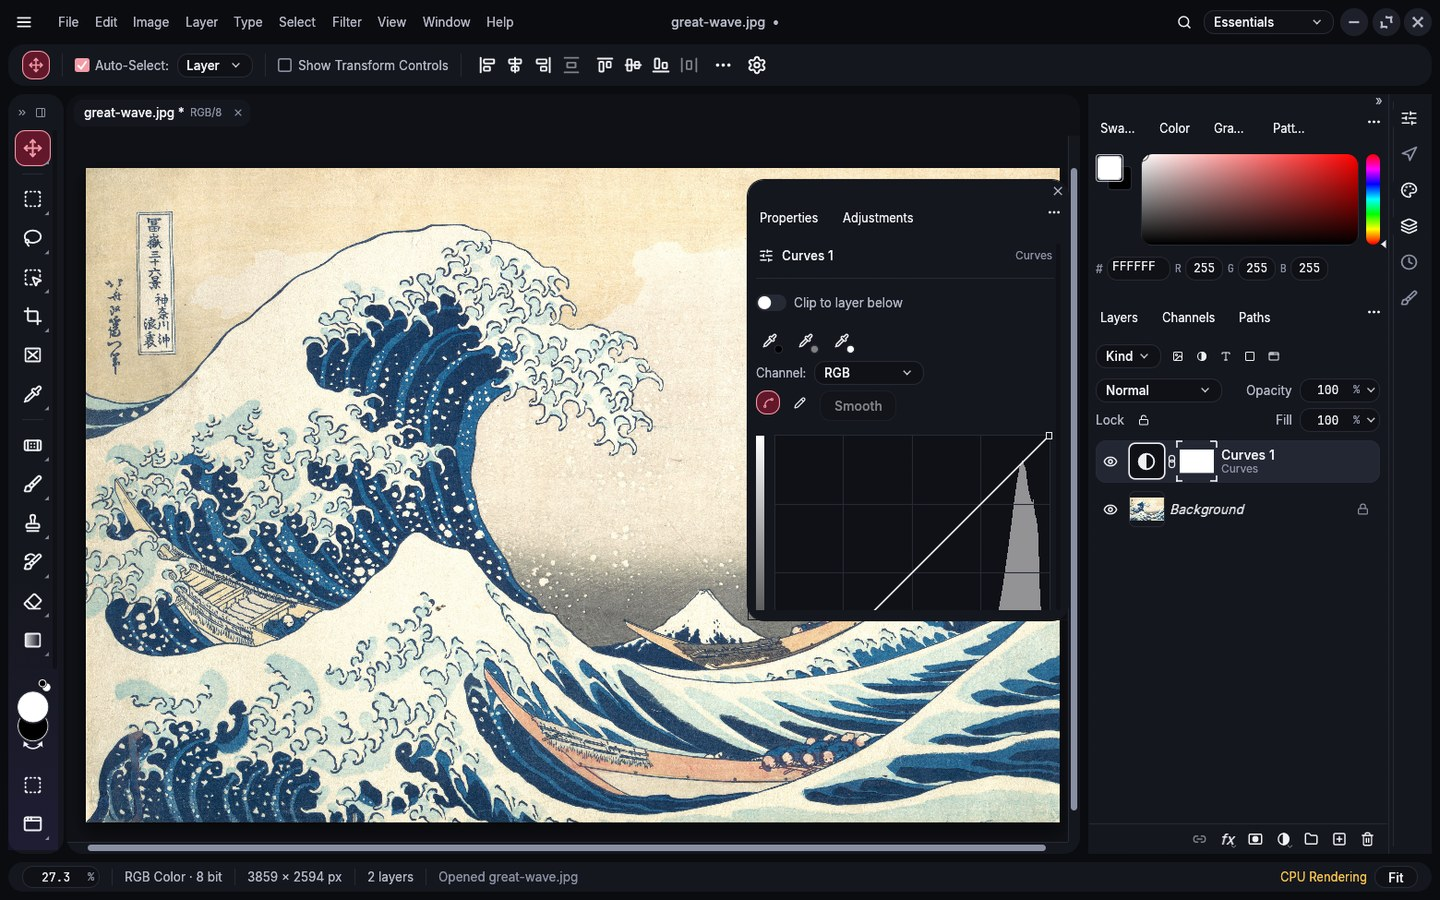
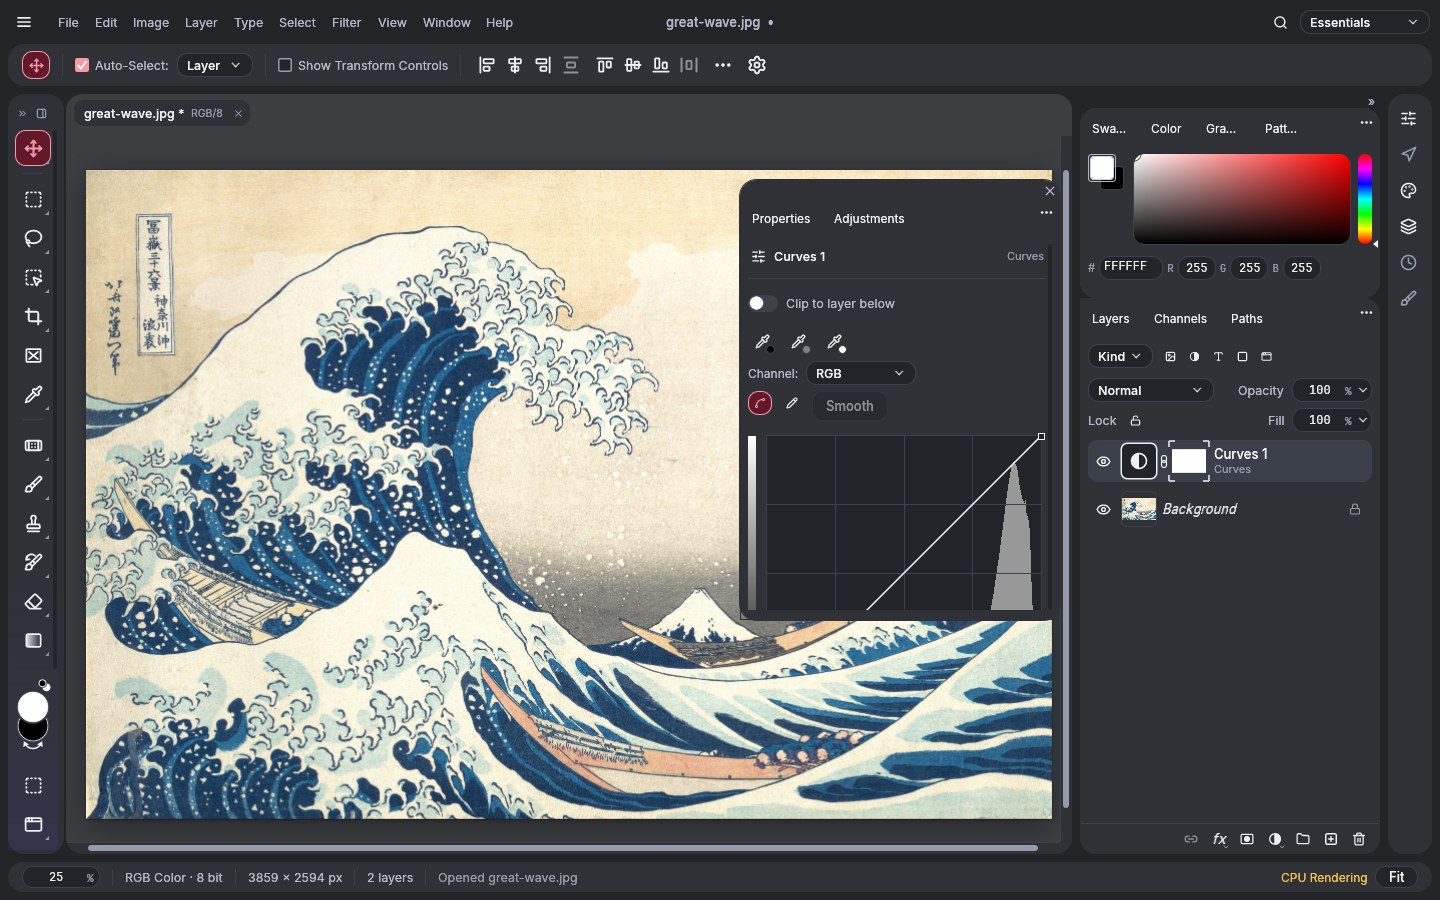
feat(ui): lighter dark mode, rounded dock cards and rail island
The dark theme was near black (the canvas 16/17/22), too dark to judge an image against, so its
surfaces are lifted a step and the canvas more. In Nodalia the right-hand dock's groups were one
square slab and its icon rail a flat strip: each group is now a rounded card and the rail an island.

Version 0.3.1, README and screenshots.

Claude-Session: https://claude.ai/code/session_018FLRxY4EMTFGFrprUoJejh

diff --git a/crates/ui-egui/src/theme.rs b/crates/ui-egui/src/theme.rs
@@ -887,8 +887,8 @@ impl Tokens {
     /// The window frame the islands stand on; the chrome colour in the other themes.
     pub fn frame(&self) -> Color32 {
         match self.kind {
-            ThemeKind::Nodalia => ndl(nodalia_theme::Mode::Dark.palette_with(LIENZO).surface_window),
-            ThemeKind::NodaliaLight => ndl(nodalia_theme::Mode::Light.palette_with(LIENZO).surface_window),
+            ThemeKind::Nodalia => ndl(palette(nodalia_theme::Mode::Dark).surface_window),
+            ThemeKind::NodaliaLight => ndl(palette(nodalia_theme::Mode::Light).surface_window),
             _ => self.chrome,
         }
     }
@@ -967,10 +967,36 @@ pub(crate) fn ndl(c: nodalia_theme::Rgba) -> Color32 {
     Color32::from_rgba_unmultiplied(c.r, c.g, c.b, c.a)
 }
 
-/// Nodalia's tokens for one mode, with Lienzo's accent. Every colour comes from the NDL palette:
+/// Nodalia's palette for one mode with Lienzo's accent. The dark surfaces are lifted a step: NDL's
+/// own are near black (the window frame is 11/12/16), too dark to judge an image against or to tell
+/// the islands apart, and the canvas, which NDL sinks below its panels, is lifted further so a
+/// dark image stands out from it. The light palette is NDL's as it is.
+pub(crate) fn palette(mode: nodalia_theme::Mode) -> nodalia_theme::Palette {
+    let mut p = mode.palette_with(LIENZO);
+    if mode.is_dark() {
+        let lift = |c: nodalia_theme::Rgba, k: f32| {
+            let up = |v: u8| (v as f32 + (255.0 - v as f32) * k).round() as u8;
+            nodalia_theme::Rgba::new(up(c.r), up(c.g), up(c.b), c.a)
+        };
+        p.surface_window = lift(p.surface_window, 0.10);
+        p.surface_panel = lift(p.surface_panel, 0.11);
+        p.surface_raised = lift(p.surface_raised, 0.11);
+        p.surface_overlay = lift(p.surface_overlay, 0.11);
+        p.surface_sunken = lift(p.surface_sunken, 0.19);
+        p.control_bg = lift(p.control_bg, 0.11);
+        p.control_bg_hover = lift(p.control_bg_hover, 0.11);
+        p.control_bg_pressed = lift(p.control_bg_pressed, 0.11);
+        p.control_field_bg = lift(p.control_field_bg, 0.08);
+        p.border_subtle = lift(p.border_subtle, 0.11);
+        p.text_tertiary = lift(p.text_tertiary, 0.10);
+    }
+    p
+}
+
+/// Nodalia's tokens for one mode, with Lienzo's accent. Every colour comes from [`palette`]:
 /// islands are `surface.panel`, the frame between them `surface.window`, controls `control.*`.
 fn nodalia_tokens(kind: ThemeKind, mode: nodalia_theme::Mode) -> Tokens {
-    let p = mode.palette_with(LIENZO);
+    let p = palette(mode);
     let dark = mode.is_dark();
     Tokens {
         kind,

diff --git a/vendor/craft-ui/src/docking/render/group.rs b/vendor/craft-ui/src/docking/render/group.rs
@@ -46,6 +46,19 @@ impl<P: Clone + Eq + Hash + Debug + Send + Sync + 'static> Renderer<'_, P> {
     /// tabs follow the panel tabs and fit with them ([`fit_with_extra`]). `minimized` hides the body
     /// but keeps the strip. Tabs, strip, header and drag bar are mirrored in right-to-left layout.
     pub(super) fn group(&mut self, ui: &mut Ui, panels: &[P], active: usize, minimized: bool, rect: Rect, kind: GroupKind) -> bool {
+        // A rounded dock group is a card: its fill first, the strip and body on top of it.
+        let round = kind == GroupKind::Dock && self.style.dock_radius > 0.0 && crate::docking::targets::usable(rect);
+        if round {
+            let radius = self.style.dock_radius.clamp(0.0, 255.0).round() as u8;
+            ui.painter().rect_filled(rect, radius, self.style.background);
+            self.dock_frame = Some(rect);
+        }
+        let taken = self.group_inner(ui, panels, active, minimized, rect, kind);
+        self.dock_frame = None;
+        taken
+    }
+
+    fn group_inner(&mut self, ui: &mut Ui, panels: &[P], active: usize, minimized: bool, rect: Rect, kind: GroupKind) -> bool {
         let Some(selected) = panels.get(active) else { return false };
         let host_collapsed = self.content.group_collapsed(panels);
         let minimized = minimized || host_collapsed;
@@ -174,7 +187,9 @@ impl<P: Clone + Eq + Hash + Debug + Send + Sync + 'static> Renderer<'_, P> {
         if !minimized {
             self.contents(ui, selected, Rect::from_min_max(pos2(rect.left(), strip.bottom()), rect.max));
         }
-        ui.painter().rect_stroke(rect, 0.0, self.style.border, StrokeKind::Inside);
+        // A rounded dock group's outline follows its corners.
+        let radius = if kind == GroupKind::Dock { self.style.dock_radius.clamp(0.0, 255.0).round() as u8 } else { 0 };
+        ui.painter().rect_stroke(rect, radius, self.style.border, StrokeKind::Inside);
         false
     }
 

diff --git a/vendor/craft-ui/src/docking/render/mod.rs b/vendor/craft-ui/src/docking/render/mod.rs
@@ -108,6 +108,9 @@ pub(super) struct Renderer<'a, P> {
     pub(super) dock_targets: Vec<crate::docking::targets::DockDrop<P>>,
     /// [D] The open groups of dock columns, whose body zones stack or make columns.
     pub(super) dock_groups: Vec<dock::DockGroup<P>>,
+    /// The rect of the rounded dock group being drawn ([`crate::docking::DockStyle::dock_radius`]),
+    /// so its body's fill follows the card's corners. `None` outside one.
+    pub(super) dock_frame: Option<Rect>,
     /// [D] The scroll offset of each dock column that scrolls this frame, by its first panel.
     pub(super) column_scroll: HashMap<P, f32>,
     pub(super) owned_interactions: Vec<Id>,
@@ -433,9 +436,15 @@ impl<P: Clone + Eq + Hash + Debug + Send + Sync + 'static> Renderer<'_, P> {
     /// The corners of a panel body that sit on the corners of a floating window with rounded
     /// corners ([`DockStyle::floating_radius`]), so the body's fill follows the window's shape.
     fn floating_corners(&self, rect: Rect) -> egui::CornerRadius {
-        let radius = self.style.floating_radius.clamp(0.0, 255.0).round() as u8;
-        let Some((_, frame)) = self.tree.as_ref().filter(|_| radius > 0) else { return egui::CornerRadius::ZERO };
+        let (radius, frame) = if let Some(frame) = self.dock_frame {
+            (self.style.dock_radius.clamp(0.0, 255.0).round() as u8, frame)
+        } else {
+            let radius = self.style.floating_radius.clamp(0.0, 255.0).round() as u8;
+            let Some((_, frame)) = self.tree.as_ref().filter(|_| radius > 0) else { return egui::CornerRadius::ZERO };
+            (radius, *frame)
+        };
         let at = |a: egui::Pos2, b: egui::Pos2| if (a - b).abs().max_elem() < 1.0 { radius } else { 0 };
+        let frame = &frame;
         egui::CornerRadius {
             nw: at(rect.left_top(), frame.left_top()),
             ne: at(rect.right_top(), frame.right_top()),

diff --git a/vendor/craft-ui/src/docking/surface.rs b/vendor/craft-ui/src/docking/surface.rs
@@ -54,6 +54,10 @@ pub struct DockStyle {
     /// Corner radius of a floating window's fill and outline (0 = square). The window's
     /// contents must leave the corners alone: give `tab_background` no colour there.
     pub floating_radius: f32,
+    /// Corner radius of a group in a dock column (0 = square). A rounded group is a card of its
+    /// own, filled with `background`, and the column paints nothing behind it, so the gaps between
+    /// the groups show what is under the dock. `tab_background` must leave the corners alone.
+    pub dock_radius: f32,
     /// Painted over a native floating window while [`DockArea::input_blocked`] is on.
     pub blocked_dim: Color32,
     /// Height of a floating window's title bar.
@@ -207,6 +211,7 @@ impl DockStyle {
             floating_background: visuals.window_fill,
             floating_stroke: visuals.window_stroke,
             floating_radius: 0.0,
+            dock_radius: 0.0,
             blocked_dim: visuals.panel_fill.gamma_multiply(0.6),
             title_height: super::chrome::TITLE_HEIGHT,
             edge_band: 28.0,
@@ -292,6 +297,7 @@ impl DockStyle {
             self.min_tab_width,
             self.floating_stroke.width,
             self.floating_radius,
+            self.dock_radius,
             self.title_height,
             self.edge_band,
             self.side_zone_fraction,
@@ -1362,6 +1368,7 @@ impl<'a, P: Clone + Eq + Hash + Debug + Send + Sync + 'static> DockArea<'a, P> {
             targets: Vec::new(),
             dock_targets: Vec::new(),
             dock_groups: Vec::new(),
+            dock_frame: None,
             column_scroll: HashMap::new(),
             owned_interactions: Vec::new(),
             output: DockOutput::default(),

diff --git a/crates/ui-egui/src/panels/dock.rs b/crates/ui-egui/src/panels/dock.rs
@@ -240,11 +240,10 @@ fn rail_widths(pro: bool) -> (f32, f32) {
 /// Narrow icon rail, unless an embedding app hides it: shows, expands or collapses panel groups.
 fn rail(app: &mut LienzoApp, ui: &mut egui::Ui, t: &Tokens) {
     let (rw, _) = rail_widths(t.pro);
-    crate::direction::end_panel("rail")
-        .resizable(false)
-        .exact_size(rw)
-        .frame(egui::Frame::NONE.fill(t.chrome).inner_margin(egui::Margin::symmetric(4, 8)))
-        .show(ui, |ui| rail_body(app, ui, t));
+    // In Nodalia the rail is an island of its own, a gap from the dock on its canvas side.
+    let toward_canvas = if crate::direction::is_rtl() { crate::theme::Gap::Right } else { crate::theme::Gap::Left };
+    let (frame, gap) = crate::theme::island(t, t.chrome, egui::Margin::symmetric(4, 8), toward_canvas);
+    crate::direction::end_panel("rail").resizable(false).show_separator_line(!t.islands()).exact_size(rw + gap).frame(frame).show(ui, |ui| rail_body(app, ui, t));
 }
 
 /// The rail's buttons, without the panel that normally holds them.
@@ -255,7 +254,9 @@ fn rail_body(app: &mut LienzoApp, ui: &mut egui::Ui, t: &Tokens) {
     // The separator is on the canvas side, inside the rail's inset.
     let r = ui.max_rect();
     let x = if crate::direction::is_rtl() { r.right() } else { r.left() };
-    ui.painter().line_segment([pos2(x, r.top()), pos2(x, r.bottom())], Stroke::new(1.0, t.separator));
+    if !t.islands() {
+        ui.painter().line_segment([pos2(x, r.top()), pos2(x, r.bottom())], Stroke::new(1.0, t.separator));
+    }
     ui.spacing_mut().item_spacing.y = 4.0;
     use crate::dock::Group;
     let entries: [(&str, &str, Group); 6] = [

diff --git a/vendor/craft-ui/src/docking/render/dock.rs b/vendor/craft-ui/src/docking/render/dock.rs
@@ -292,7 +292,7 @@ impl<P: Clone + Eq + Hash + Debug + Send + Sync + 'static> Renderer<'_, P> {
             self.dock_targets.push(DockDrop { target: DockTarget::NewDock { side }, band, line, outer: true });
             return;
         }
-        if usable(rect) {
+        if usable(rect) && self.style.dock_radius <= 0.0 {
             ui.painter().rect_filled(rect, 0.0, self.style.background);
         }
         let DockColumns { bounds, natural, widths, rects } = self.dock_columns(side, columns, rect);
@@ -472,7 +472,7 @@ impl<P: Clone + Eq + Hash + Debug + Send + Sync + 'static> Renderer<'_, P> {
             self.iconic_column(ui, column, body, edge);
         }
         if column.iconic || !usable(body) {
-            ui.painter().rect_stroke(rect, 0.0, self.style.border, StrokeKind::Inside);
+            self.column_outline(ui, rect);
             return;
         }
         let total: f32 = heights.iter().sum();
@@ -502,7 +502,14 @@ impl<P: Clone + Eq + Hash + Debug + Send + Sync + 'static> Renderer<'_, P> {
                 *tab = tab.intersect(body);
             }
         }
-        ui.painter().rect_stroke(rect, 0.0, self.style.border, StrokeKind::Inside);
+        self.column_outline(ui, rect);
+    }
+
+    /// A column's outline: none when its groups are rounded cards, which carry their own.
+    fn column_outline(&self, ui: &Ui, rect: Rect) {
+        if self.style.dock_radius <= 0.0 {
+            ui.painter().rect_stroke(rect, 0.0, self.style.border, StrokeKind::Inside);
+        }
     }
 
     /// Groups top to bottom in `area` (the scrolled content when the column scrolls), their

diff --git a/crates/ui-egui/src/theme/tests.rs b/crates/ui-egui/src/theme/tests.rs
@@ -379,6 +379,19 @@ fn nodalia_is_the_shipping_default_with_lienzo_islands() {
 }
 
 #[test]
+fn nodalia_dark_is_lifted_off_black_and_light_is_ndls_own() {
+    let lum = |c: Color32| u32::from(c.r()) + u32::from(c.g()) + u32::from(c.b());
+    let ndl_dark = nodalia_theme::Mode::Dark.palette_with(LIENZO);
+    let dark = Tokens::for_kind(ThemeKind::Nodalia);
+    assert!(lum(dark.canvas) > lum(ndl(ndl_dark.surface_sunken)) + 60, "the canvas is no longer near black");
+    assert!(lum(dark.frame()) > lum(ndl(ndl_dark.surface_window)), "the window frame is lifted");
+    assert!(lum(dark.canvas) > lum(dark.chrome), "the canvas stays a step above the islands");
+    let ndl_light = nodalia_theme::Mode::Light.palette_with(LIENZO);
+    let light = Tokens::for_kind(ThemeKind::NodaliaLight);
+    assert_eq!((light.canvas, light.chrome), (ndl(ndl_light.surface_sunken), ndl(ndl_light.surface_panel)));
+}
+
+#[test]
 fn nodalia_title_bar_has_the_main_menu_instead_of_the_mark() {
     crate::app::NODALIA_IN_TESTS.with(|n| n.set(true));
     let mut app = crate::LienzoApp::new(lienzo_engine::Session::new(), crate::Services::default());

diff --git a/crates/ui-egui/src/panels/titlebar.rs b/crates/ui-egui/src/panels/titlebar.rs
@@ -446,7 +446,7 @@ fn paint_round(ui: &Ui, t: &Tokens, s: &CaptionStyle, c: Caption, maximized: boo
 /// its 24 pt grid with 2 pt strokes on whole pixels, all scaled by `k` (1 for the window's own
 /// 28 pt buttons, smaller for a dialog's close button).
 fn paint_nodalia(ui: &Ui, t: &Tokens, c: Caption, maximized: bool, centre: Pos2, (hovered, pressed): (bool, bool), k: f32) {
-    let p = if t.dark() { nodalia_theme::Mode::Dark } else { nodalia_theme::Mode::Light }.palette_with(crate::theme::LIENZO);
+    let p = crate::theme::palette(if t.dark() { nodalia_theme::Mode::Dark } else { nodalia_theme::Mode::Light });
     let c32 = crate::theme::ndl;
     let ppp = ui.ctx().pixels_per_point();
     let centre = pos2((centre.x * ppp).round() / ppp, (centre.y * ppp).round() / ppp);

diff --git a/crates/ui-egui/src/panels/panel_docking.rs b/crates/ui-egui/src/panels/panel_docking.rs
@@ -821,6 +821,8 @@ fn show_layout(app: &mut LienzoApp, ui: &mut egui::Ui, dock_only: bool) {
         // The floating Properties card is an island too: its own fill is rounded, so the strip
         // must not paint a square over the corners.
         style.floating_radius = crate::theme::ISLAND_RADIUS;
+        // Docked groups are cards too, standing apart in the column rather than one square slab.
+        style.dock_radius = crate::theme::ISLAND_RADIUS;
         style.tab_background = egui::Color32::TRANSPARENT;
     }
     style.text = t.text;

diff --git a/README.md b/README.md
@@ -44,7 +44,7 @@ for working in layers, with no account and no cloud. It runs on Linux, macOS and
 </p>
 
 > [!IMPORTANT]
-> **Lienzo is at an early stage.** Version 0.3.0 is out for Linux, macOS and Windows:
+> **Lienzo is at an early stage.** Version 0.3.1 is out for Linux, macOS and Windows:
 > [download it from the releases page](https://github.com/getnodalia/lienzo/releases/latest)
 > (AppImage, .deb, .rpm and .tar.gz; a DMG; a Windows installer and portable zip).
 
